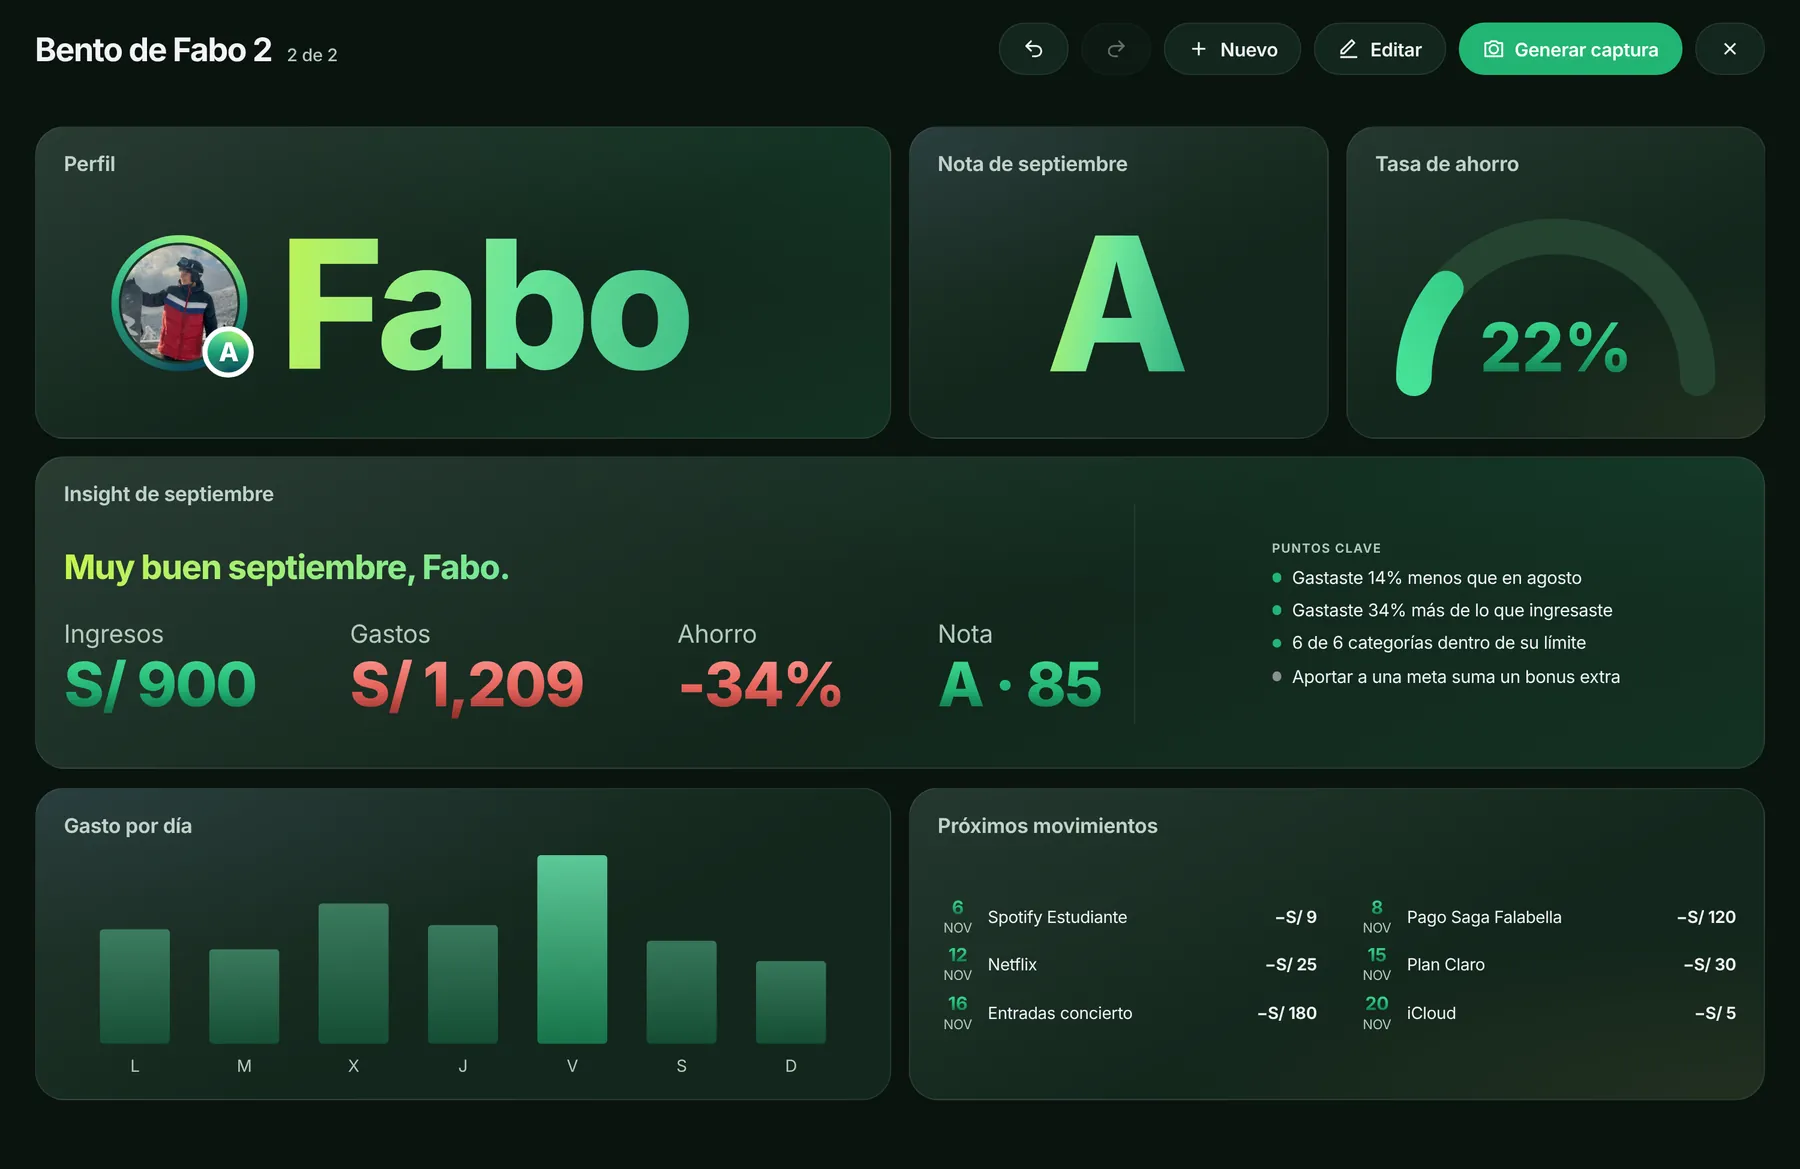
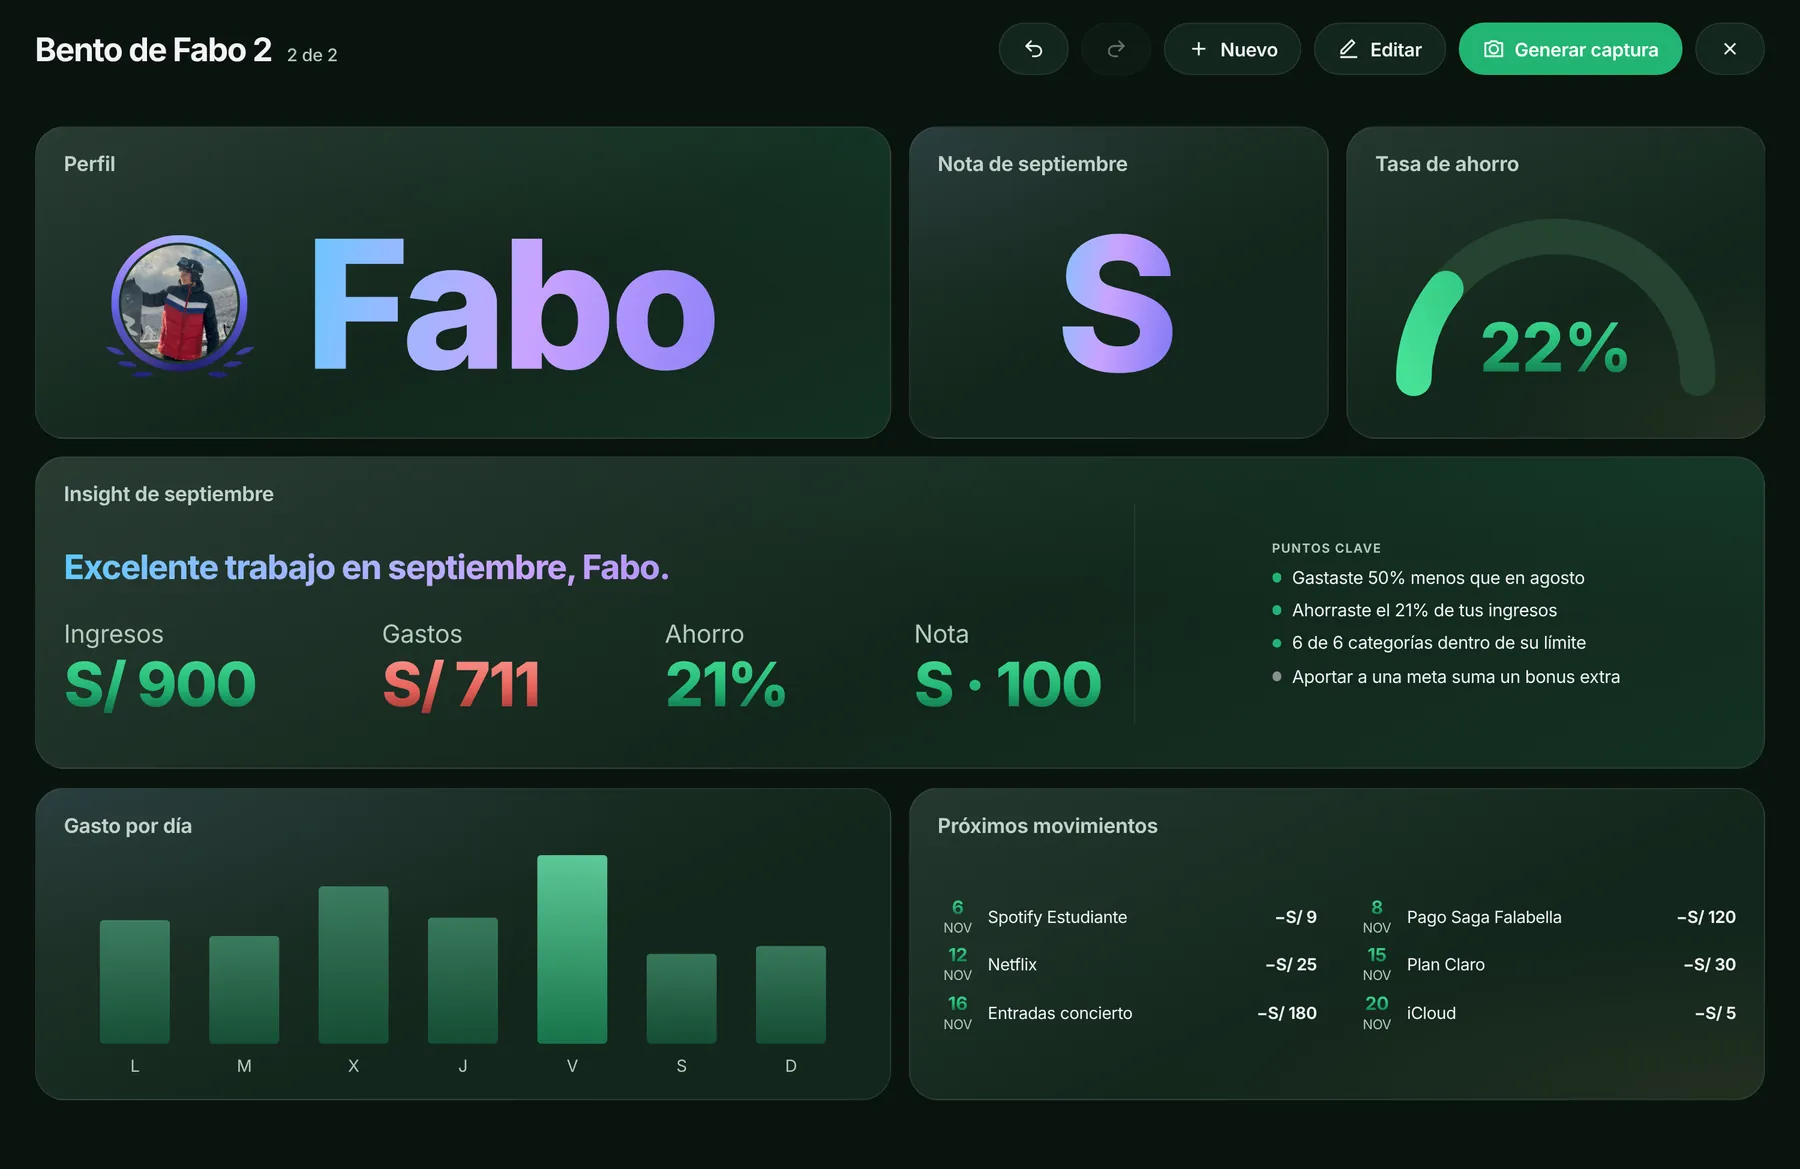
Landing: carrusel de Bentos a todo el ancho y más visible, nota al pie 3, Bento de Fabo corregido
Claude-Session: https://claude.ai/code/session_014bTNQcC8k6M1PSa8XBGZ3f

diff --git a/index.html b/index.html
@@ -90,10 +90,10 @@ footer a{text-decoration:none;border-bottom:1px solid var(--line)}
 .hero .trust{order:4;list-style:none;margin:16px 0 0;padding:0;display:flex;flex-wrap:wrap;justify-content:center;gap:8px 22px;font-size:14px;font-weight:500;color:var(--mute)}.hero .trust li{display:inline-flex;align-items:center;gap:6px}.hero .trust svg{color:var(--accent);flex:none}
 .hero .cta{flex-direction:column;align-items:center;gap:10px}.hero .cta .note{font-style:italic;margin:0}
 .bcs{display:flex;flex-direction:column;align-items:center;text-align:center;padding-top:24px}.bcs .bi{width:56px;height:56px;border-radius:18px;background:var(--soft);color:var(--accent);display:grid;place-items:center;margin-bottom:18px}.bcs h3{font-size:clamp(30px,5vw,52px);letter-spacing:-.03em;line-height:1.05;margin:0 0 16px;text-wrap:balance;max-width:14em}.bcs .pill sup{font-size:.75em;letter-spacing:0;margin-left:3px;vertical-align:super;line-height:0}.bcs .bsubt{max-width:34em;color:var(--mute);margin:18px auto 0;font-size:clamp(16px,2vw,19px)}
-.bcar{position:relative;width:100%;max-width:1500px;height:clamp(250px,42vw,600px);margin-top:34px;overflow:hidden;-webkit-mask-image:linear-gradient(90deg,transparent,#000 10%,#000 90%,transparent);mask-image:linear-gradient(90deg,transparent,#000 10%,#000 90%,transparent)}
-.bt{position:absolute;left:0;top:50%;height:64%;display:flex;gap:30px;transform:translate3d(0,-50%,0);will-change:transform}.bt img{height:100%;width:auto;flex:none;border-radius:22px;opacity:.5;filter:blur(1.5px) saturate(.9);box-shadow:0 14px 40px rgba(0,0,0,.28)}
+.bcar{position:relative;width:100vw;max-width:none;margin-left:calc(50% - 50vw);height:clamp(250px,42vw,600px);margin-top:34px;overflow:hidden;-webkit-mask-image:linear-gradient(90deg,transparent,#000 5%,#000 95%,transparent);mask-image:linear-gradient(90deg,transparent,#000 5%,#000 95%,transparent)}
+.bt{position:absolute;left:0;top:50%;height:76%;display:flex;gap:26px;transform:translate3d(0,-50%,0);will-change:transform}.bt img{height:100%;width:auto;flex:none;border-radius:22px;opacity:1;filter:brightness(.92);box-shadow:0 10px 30px rgba(0,0,0,.25)}
 .bf{position:absolute;left:50%;top:50%;height:84%;aspect-ratio:1800/1169;transform:translate(-50%,-50%);filter:drop-shadow(0 16px 24px rgba(0,0,0,.3))}.bf img{position:absolute;inset:0;width:100%;height:100%;border-radius:26px;opacity:0;transition:opacity .9s ease;box-shadow:0 0 0 1px rgba(255,255,255,.07)}.bf img.on{opacity:1}
-@media (max-width:760px){.bcar{height:clamp(220px,62vw,420px)}.bf{height:78%}.bt{height:56%;gap:18px}.bt img{border-radius:14px}.bf img{border-radius:16px}}
+@media (max-width:760px){.bcar{height:clamp(220px,62vw,420px)}.bf{height:78%}.bt{height:64%;gap:14px}.bt img{border-radius:14px}.bf img{border-radius:16px}}
 .kpin{height:190vh;position:relative}.kpin>.kr{position:sticky;top:max(84px,calc(50vh - 300px))}.kstack{display:grid;order:2}.kstack .kimg{grid-area:1/1;opacity:0;transition:opacity .5s ease;pointer-events:none}.kstack .kimg.on{opacity:1}.kps{display:grid}.kps p{grid-area:1/1;opacity:0;transform:translateY(8px);transition:opacity .45s ease,transform .45s ease}.kps p.on{opacity:1;transform:none}.kdots{display:flex;gap:6px;margin-top:18px}.kdots i{width:7px;height:7px;border-radius:50%;background:var(--line,#ccc);transition:background .3s,width .3s}.kdots i.on{background:var(--accent,#22B573);width:20px;border-radius:4px}@media (max-width:760px){.kpin>.kr{top:76px}.kstack .kimg{max-height:48vh;width:auto;margin:0 auto}}.kh .gs{background:linear-gradient(90deg,#C08CF0,#6D6BF2);-webkit-background-clip:text;background-clip:text;color:transparent;-webkit-text-fill-color:transparent}.kh .ga{background:linear-gradient(90deg,#34D399,#0E8F6E);-webkit-background-clip:text;background-clip:text;color:transparent;-webkit-text-fill-color:transparent}.kx{display:inline-block;vertical-align:bottom;overflow:hidden;white-space:nowrap;max-width:0;opacity:0;transition:max-width .6s ease,opacity .45s ease}.kxi{display:inline-block}.kh.two .kx{max-width:9em;opacity:1}body:has(.nav.open) #flogo{opacity:0;visibility:hidden;pointer-events:none}.nav .btn.sm{white-space:nowrap;padding-inline:14px}.kh .kx{max-width:0}.kh.two .kx{max-width:2em}.kb{display:block;overflow:hidden;max-height:0;opacity:0;padding-bottom:.08em;transition:max-height .6s ease,opacity .5s ease}.kh.two .kb{max-height:1.4em;opacity:1}.kt h3.kh{line-height:1.08}.kh .kb{padding-bottom:.12em}.kpin>.kr{top:84px;height:calc(100vh - 84px);height:calc(100svh - 84px);align-content:center}@media (max-width:760px){.kpin>.kr{top:76px;height:calc(100vh - 76px);height:calc(100svh - 76px)}}@media (min-width:900px){.kr.kw{max-width:1200px;grid-template-columns:1.6fr 1fr;gap:28px}.kr.kw.rev{grid-template-columns:1fr 1.6fr}}@media (max-width:899px){.kpin .kstack{order:-1}}@media (max-width:760px){.kpin>.kr{align-content:start;padding-top:12px;gap:12px}.kpin .kt .fi{display:none}.kpin .kstack .kimg{max-height:max(230px,calc(100svh - 76px - 270px))}.kpin .kt h3{margin-bottom:8px}.kdots{margin-top:12px}}.kmob{display:contents}@media (min-width:900px){.kmob{display:none}}@media (max-width:899px){.kpin{display:none}.kmob .kt h3{line-height:1.08}}</style>
 
 
@@ -172,6 +172,7 @@ footer a{text-decoration:none;border-bottom:1px solid var(--line)}
 <button class="lbtn" id="lbtn" type="button" aria-expanded="false" aria-controls="lmore"><span data-es="Ver más" data-en="Read more">Ver más</span><span data-es="Ver menos" data-en="Show less" hidden>Ver menos</span></button>
 <p data-es="1: No se va a poder, empieza a usar Plata para que ese número no se vea feo oe." data-en="1: It won&#x27;t be possible, start using Plata so that number doesn&#x27;t look ugly, hey.">1: No se va a poder, empieza a usar Plata para que ese número no se vea feo oe.</p>
 <p data-es="2: No existe número 2 lol, solo nos gustó añadir estas notitas." data-en="2: There is no number 2 lol, we just liked adding these little notes.">2: No existe número 2 lol, solo nos gustó añadir estas notitas.</p>
+<p data-es="3: Bento estará disponible de forma más reducida en la app para móviles." data-en="3: Bento will be available in a more limited form in the mobile app.">3: Bento estará disponible de forma más reducida en la app para móviles.</p>
 </section>
 </main>
 
